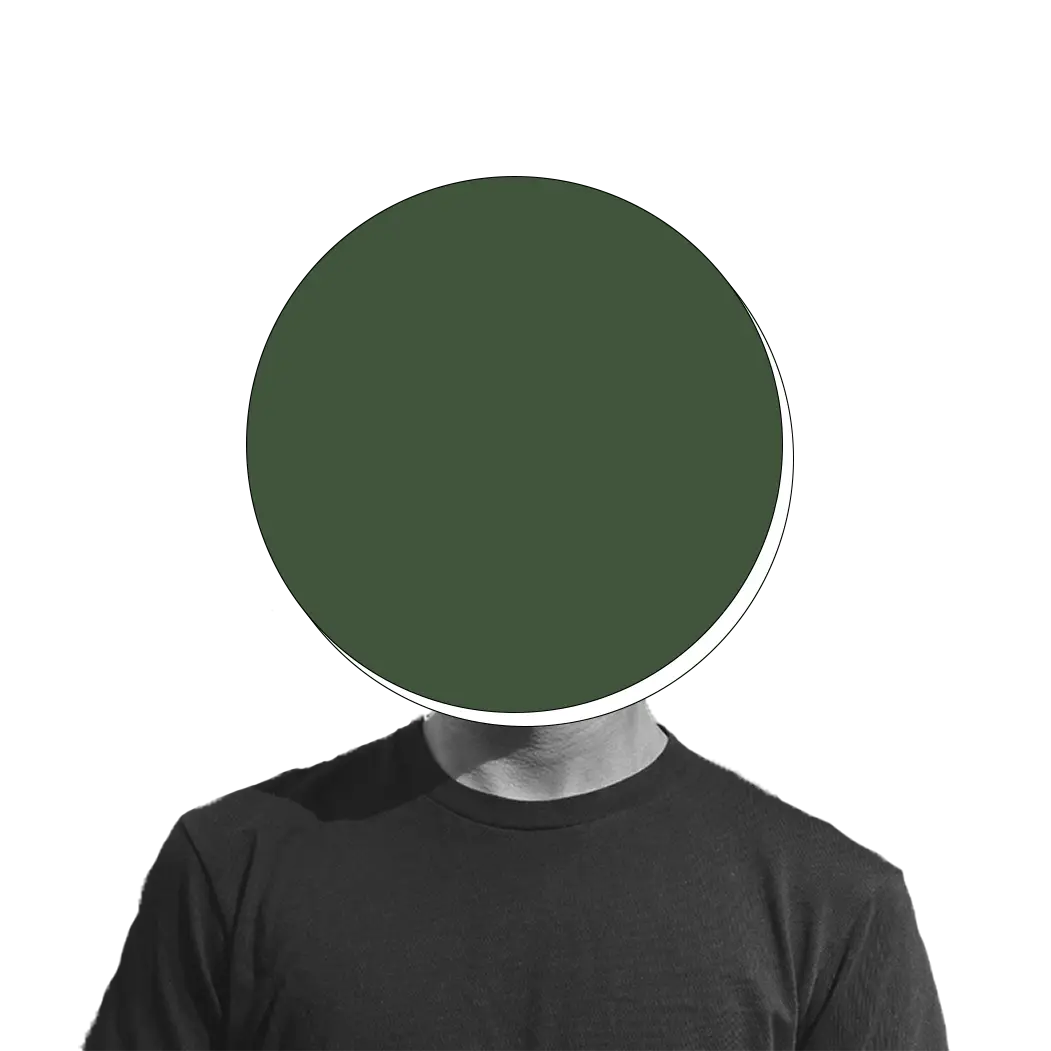
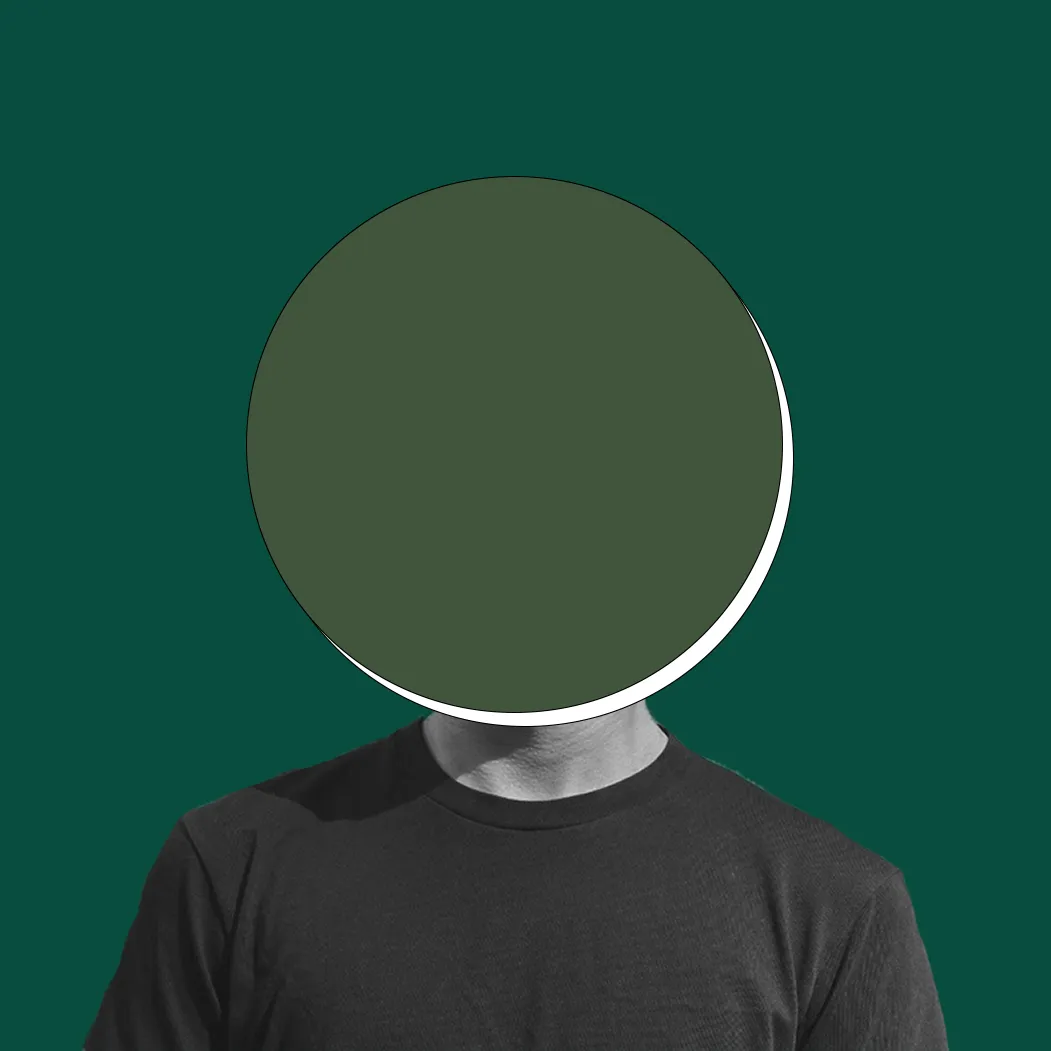
refactor: fonts, data loaders, pfp

diff --git a/components/BlogLink/index.tsx b/components/BlogLink/index.tsx
@@ -55,27 +55,27 @@ const LinkEmbed = (props: { slug: string; tag: string }) => {
                 <span className="text-sm font-medium text-text-primary hover:underline">
                   {isLoading
                     ? "Loading..."
-                    : data.title.length > 60
-                    ? shortener(data.title, 60)
-                    : data.title}
+                    : data?.title.length > 60
+                    ? shortener(data?.title, 60)
+                    : data?.title}
                 </span>
               </div>
             </Link>
 
             <Link
-              href={isLoading ? "#" : data.creator_url}
+              href={isLoading ? "#" : data?.creator_url}
               className="text-xs font-medium text-text-secondary hover:underline"
             >
-              @{isLoading ? "Loading..." : data.creator}
+              @{isLoading ? "Loading..." : data?.creator}
             </Link>
           </div>
 
           <p className={`text-sm font-normal text-text-secondary`}>
             {isLoading
               ? "Loading..."
-              : data.description.length > 210
-              ? shortener(data.description, 200)
-              : data.description}
+              : data?.description.length > 210
+              ? shortener(data?.description, 200)
+              : data?.description}
           </p>
         </div>
       </div>
@@ -112,11 +112,11 @@ const BlogLinkHeader = (props: {
       <div className="mb-2 flex flex-col justify-between md:flex-row md:items-center">
         <p>
           {props.tag && <TagPill tag={props.tag} tagColor={tagColor} />}
-          <h1
-            className={`my-2 whitespace-normal text-lg font-bold text-text-primary hover:underline md:max-w-[500px] lg:max-w-[700px]`}
+          <span
+            className={`my-2 block whitespace-normal text-lg font-bold text-text-primary hover:underline md:max-w-[500px] lg:max-w-[680px]`}
           >
-            {props.title} this is a test if long test this
-          </h1>
+            {props.title} this is a test if long test this this note
+          </span>
         </p>
         <div className="mt-2 flex flex-row gap-x-4">
           <ViewCounter slug={props.slug} count={false} />

diff --git a/lib/useBookmarkEntries.ts b/lib/useBookmarkEntries.ts
@@ -39,27 +39,27 @@ export default function useBookmarkEntries() {
           {
             name: "TECHNICAL",
             description: "Technical articles, videos, and websites",
-            links: filterBookmarks(data.bookmarks, "TECHNICAL"),
+            links: filterBookmarks(data?.bookmarks, "TECHNICAL"),
           },
           {
             name: "READINGS",
             description: "Articles, videos, and websites",
-            links: filterBookmarks(data.bookmarks, "READING"),
+            links: filterBookmarks(data?.bookmarks, "READING"),
           },
           {
             name: "DESIGNS",
             description: "Articles, videos, and websites",
-            links: filterBookmarks(data.bookmarks, "DESIGN"),
+            links: filterBookmarks(data?.bookmarks, "DESIGN"),
           },
           {
             name: "VIDEOS",
             description: "Articles, videos, and websites",
-            links: filterBookmarks(data.bookmarks, "VIDEO"),
+            links: filterBookmarks(data?.bookmarks, "VIDEO"),
           },
           {
             name: "WEBSITES",
             description: "Articles, videos, and websites",
-            links: filterBookmarks(data.bookmarks, "WEBSITE"),
+            links: filterBookmarks(data?.bookmarks, "WEBSITE"),
           },
         ]);
         setLoading(false);

diff --git a/pages/_app.tsx b/pages/_app.tsx
@@ -1,6 +1,41 @@
 import "styles/globals.css";
 import type { AppProps } from "next/app";
+import localFont from "@next/font/local";
+
+const tanker = localFont({
+  src: "../public/fonts/Tanker-Regular.woff2",
+  weight: "400",
+  style: "normal",
+  variable: "--font-chubbo",
+});
+
+const chubbo = localFont({
+  src: "../public/fonts/Chubbo-Variable.woff2",
+  weight: "200 700",
+  style: "normal",
+  variable: "--font-chubbo",
+});
+
+const supreme = localFont({
+  src: "../public/fonts/Supreme-Variable.woff2",
+  weight: "100 800",
+  style: "normal",
+  variable: "--font-supreme",
+});
 
 export default function App({ Component, pageProps }: AppProps) {
-  return <Component {...pageProps} />;
+  return (
+    <>
+      <style jsx global>
+        {`
+          :root {
+            --font-chubbo: ${chubbo.style.fontFamily};
+            --font-tanker: ${tanker.style.fontFamily};
+            --font-supreme: ${supreme.style.fontFamily};
+          }
+        `}
+      </style>
+      <Component {...pageProps} />
+    </>
+  );
 }

diff --git a/pages/api/metadata/general.ts b/pages/api/metadata/general.ts
@@ -6,11 +6,11 @@ const handler = async (req: NextApiRequest, res: NextApiResponse) => {
     const { url } = req.query;
     const data = await getMetaData(url as string);
     return res.status(200).json({
-      name: data.title,
-      link: data.url,
-      icon: data.icon,
-      image: data.image,
-      description: data.description,
+      name: data?.title,
+      link: data?.url,
+      icon: data?.icon,
+      image: data?.image,
+      description: data?.description,
     });
   } catch (err) {
     return res.status(500).json({ message: err });

diff --git a/tailwind.config.js b/tailwind.config.js
@@ -26,9 +26,9 @@ module.exports = {
       },
       fontFamily: {
         sans: ["Inter", ...fontFamily.sans],
-        chubbo: ["Chubbo-Variable", ...fontFamily.sans],
-        supreme: ["Supreme-Variable", ...fontFamily.sans],
-        tanker: ["Tanker-Regular", ...fontFamily.sans],
+        chubbo: ["var(--font-chubbo)", ...fontFamily.sans],
+        supreme: ["var(--font-supreme)", ...fontFamily.sans],
+        tanker: ["var(--font-tanker)", ...fontFamily.sans],
       },
       typography: (theme) => ({
         DEFAULT: {

diff --git a/lib/getYoutubeData.ts b/lib/getYoutubeData.ts
@@ -10,9 +10,9 @@ const getYoutubeData = async (slug: string) => {
     });
 
     return {
-      title: response.data.title,
-      creator: response.data.author_name,
-      creator_url: response.data.author_url,
+      title: response.data?.title,
+      creator: response.data?.author_name,
+      creator_url: response.data?.author_url,
     };
   } catch (err) {
     return null;

diff --git a/styles/globals.css b/styles/globals.css
@@ -2,7 +2,7 @@
 @tailwind components;
 @tailwind utilities;
 
-@font-face {
+/* @font-face {
   font-family: "Tanker-Regular";
   src: url("/fonts/Tanker-Regular.woff2") format("woff2"),
     url("/fonts/Tanker-Regular.woff") format("woff"),
@@ -30,7 +30,7 @@
   font-weight: 100 800;
   font-display: swap;
   font-style: normal;
-}
+} */
 
 html {
   min-width: 280px;

diff --git a/lib/stringMan.ts b/lib/stringMan.ts
@@ -1,3 +1,3 @@
 export const shortener = (string: string, length: number) => {
-  return string.slice(0, length) + "...";
+  return string?.slice(0, length) + "...";
 };
